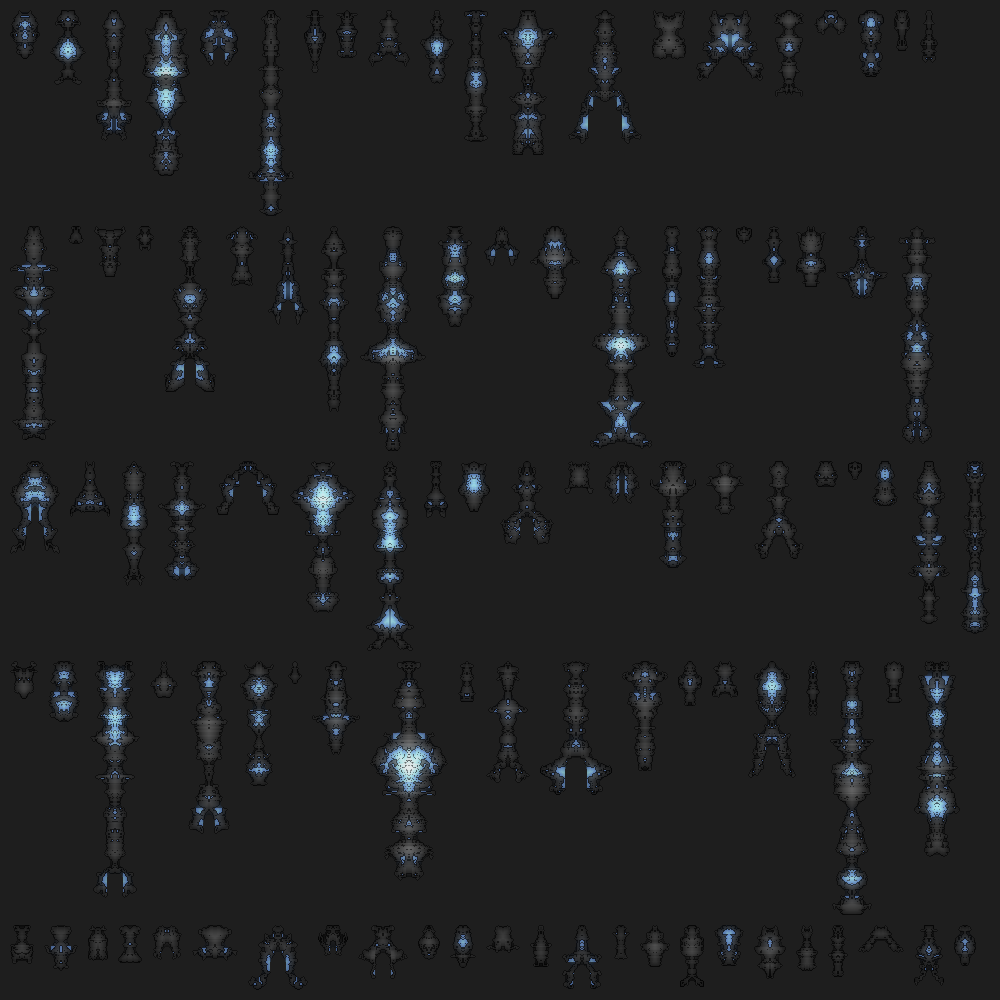
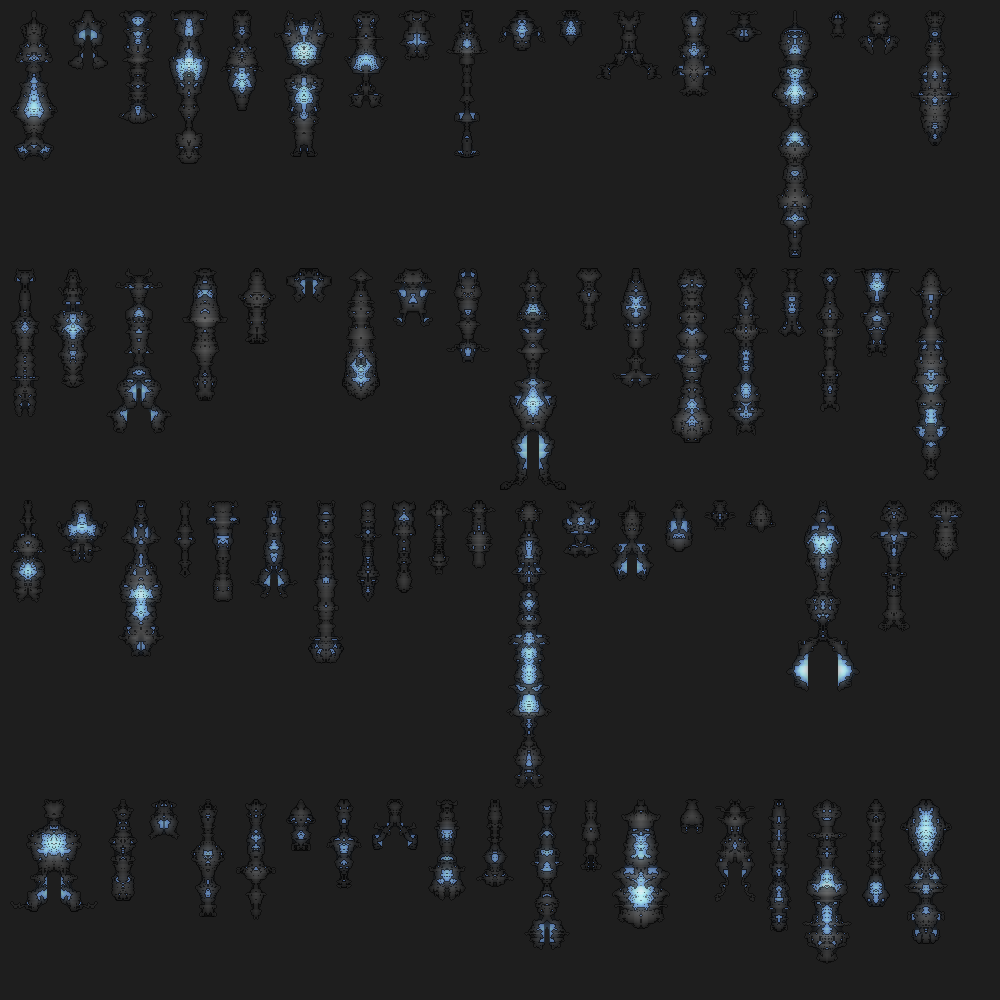
Small tweak

diff --git a/src/ajb/factory/VesselGeneratorFactory.java b/src/ajb/factory/VesselGeneratorFactory.java
@@ -12,8 +12,8 @@ import ajb.utils.PixelGridUtils;
 
 public class VesselGeneratorFactory {
 
-	private final int ROWS = 500;
-	private final int COLS = 500;
+	private final int ROWS = 600;
+	private final int COLS = 600;
 
 	public Pixel[][] create() {
 
@@ -62,6 +62,11 @@ public class VesselGeneratorFactory {
 		}
 		
 		//System.out.println("FILLED:" + noOfFilledPixels + " SECONDARY:" + noOfSecondaryPixels+ " TERTIARY:" + noOfTertiaryPixels + " BORDER:" + noOfBorderPixels + " EMPTY:" + noOfEmptyPixels);
+		
+		if (noOfSecondaryPixels == 0) {
+			result = false;
+			//System.out.println("REJECTED");
+		}
 		
 		if (noOfSecondaryPixels > (noOfFilledPixels / 4)) {
 			result = false;
